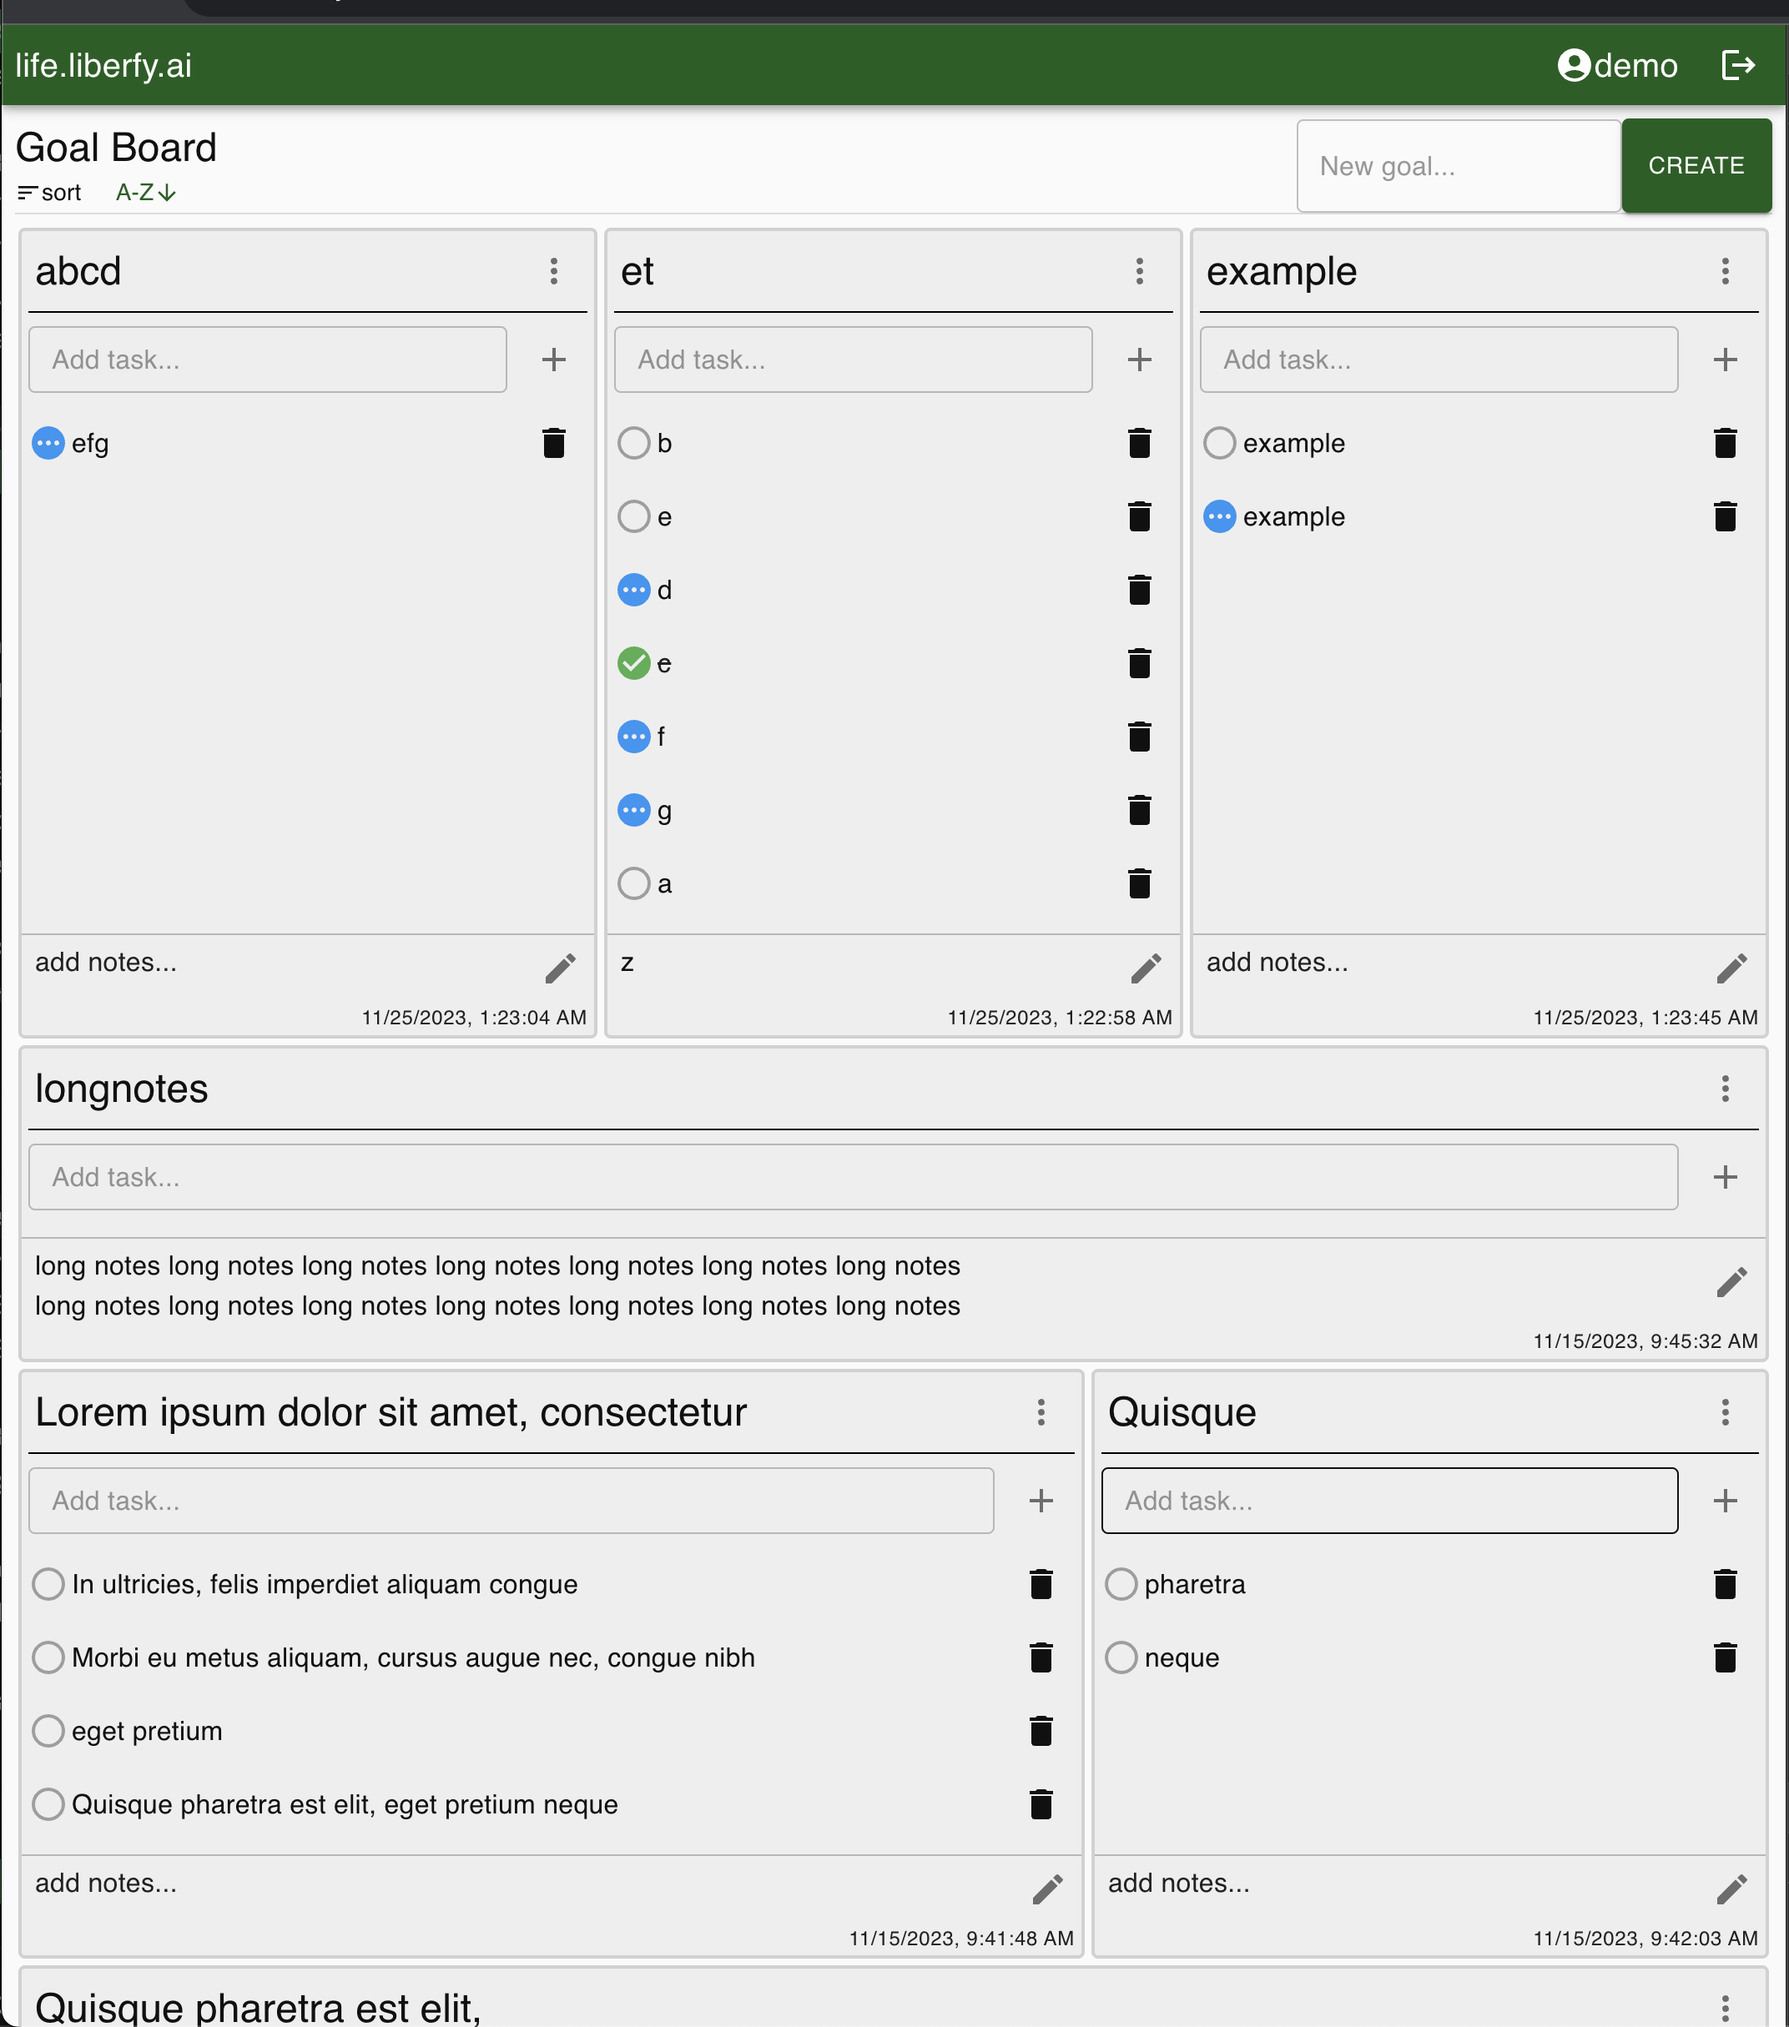
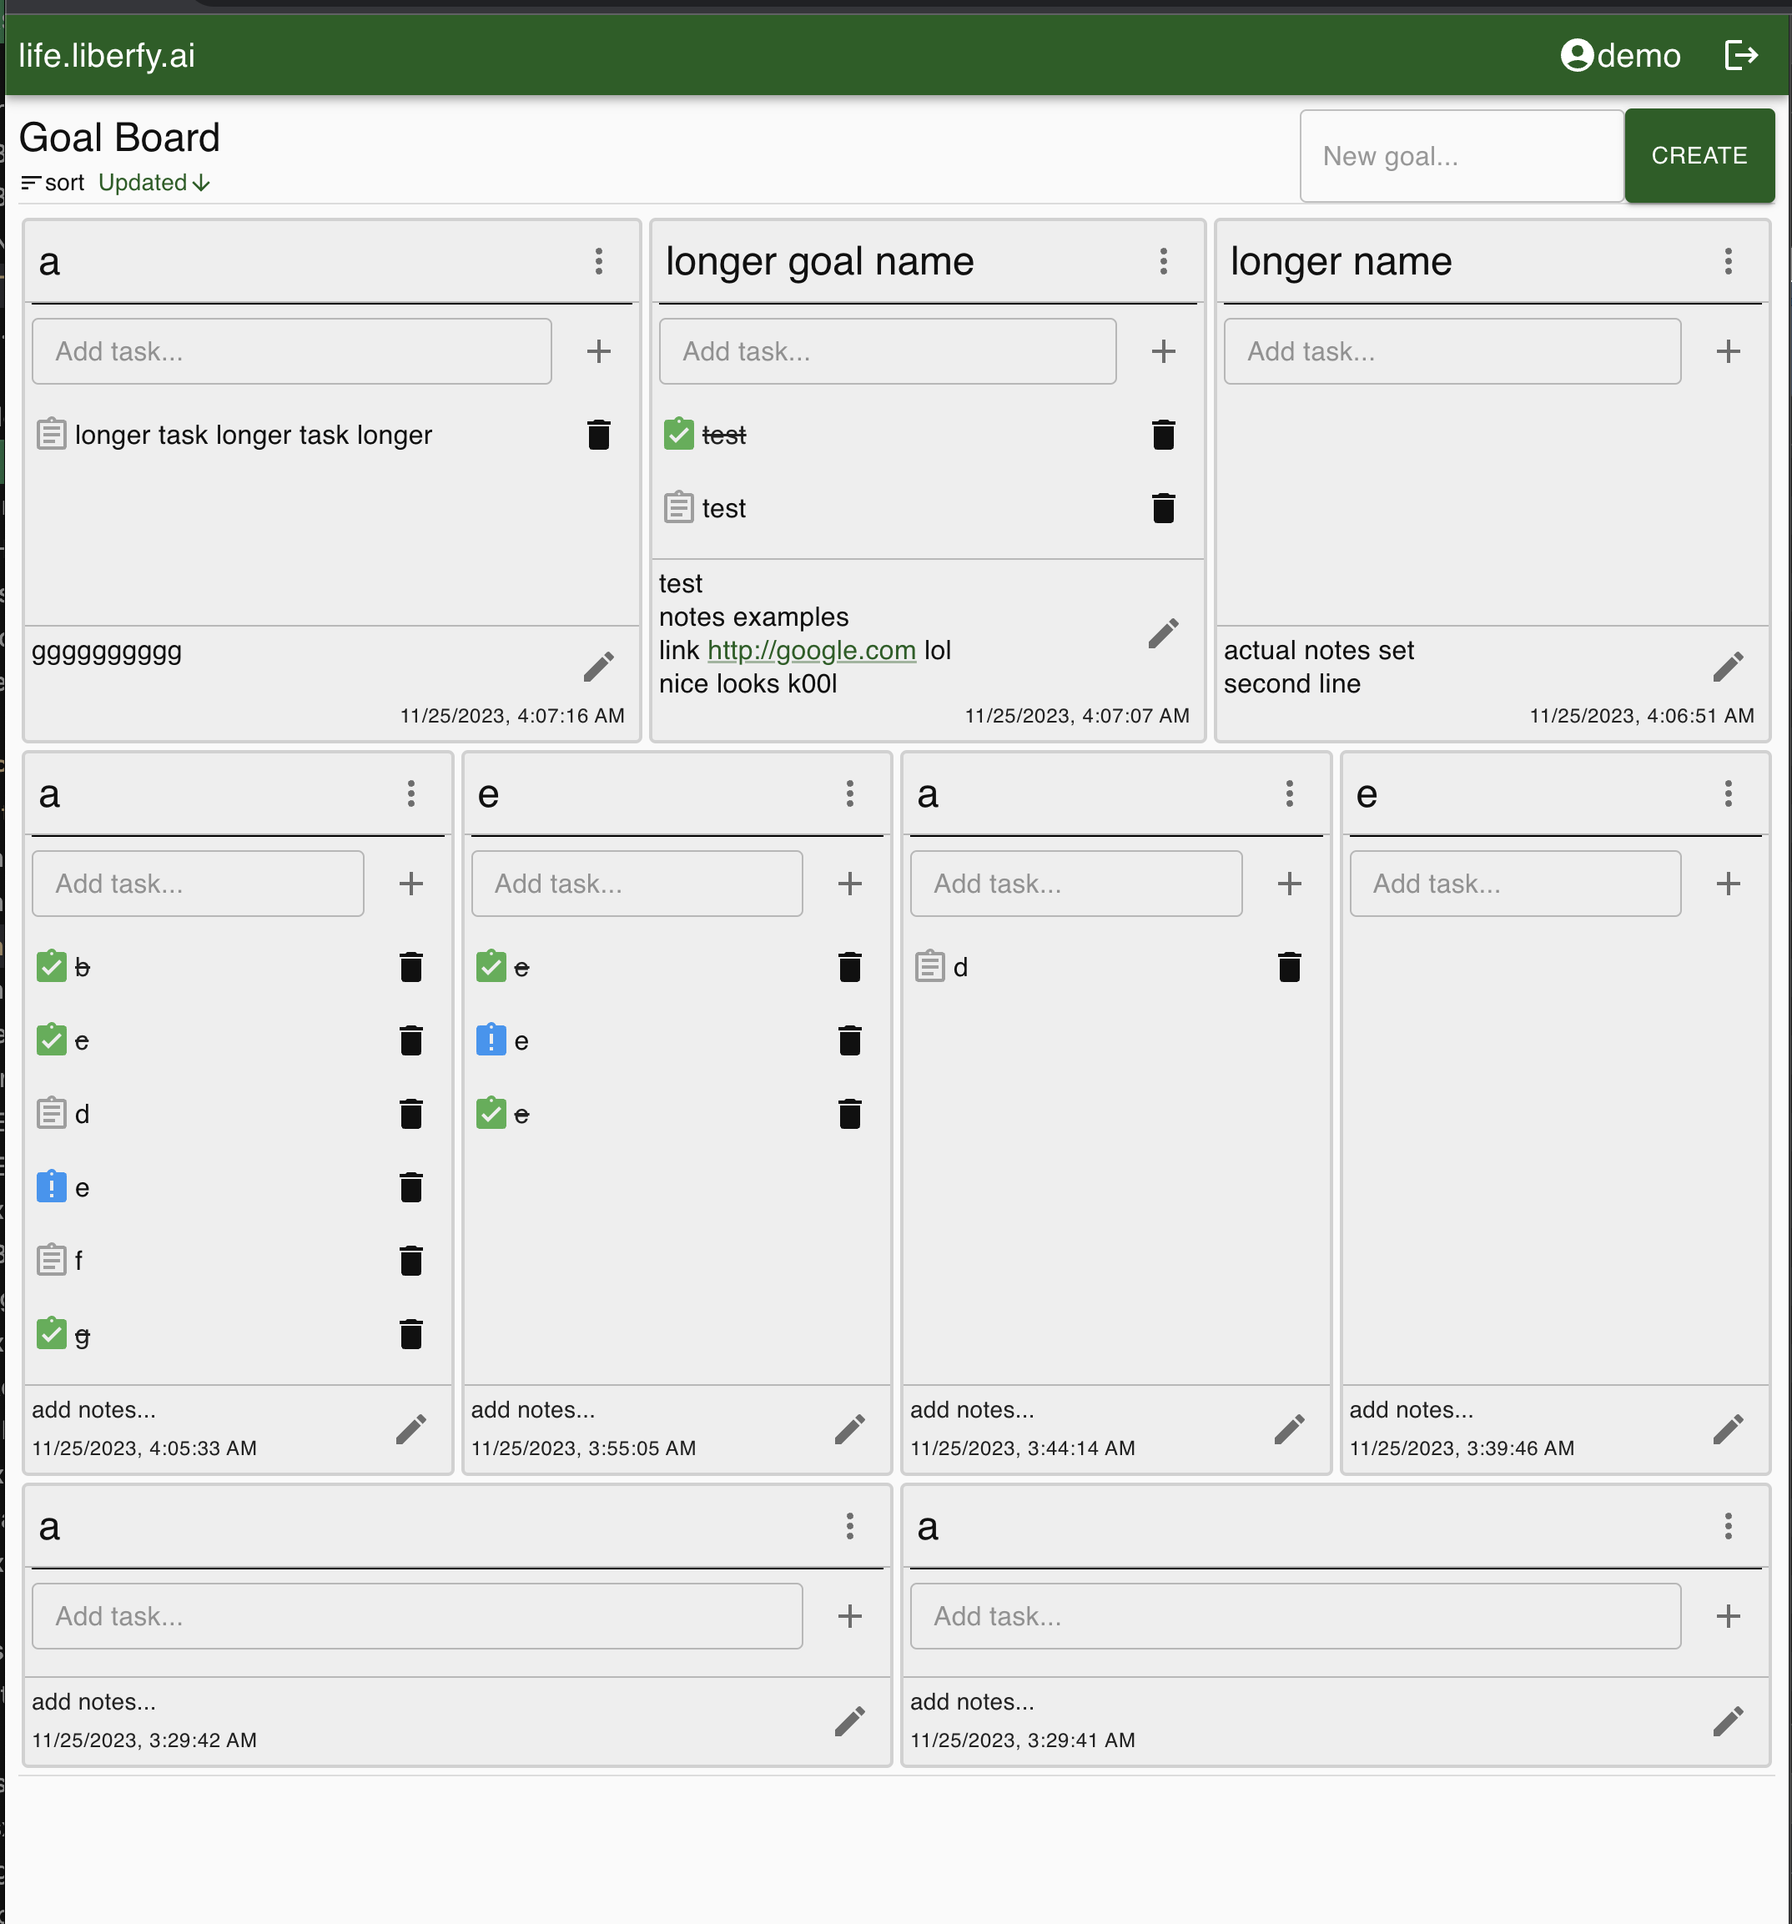
previews update

diff --git a/frontend/src/pages/GoalsPage/GoalItem/GoalTaskItem.tsx b/frontend/src/pages/GoalsPage/GoalItem/GoalTaskItem.tsx
@@ -2,9 +2,9 @@ import React from 'react';
 import { Box, Typography, IconButton } from '@mui/material';
 import { GoalTaskOut, GoalOut, TaskStatus } from '../../../api';
 import {
-  CircleOutlined,
-  Pending,
-  CheckCircle,
+  AssignmentOutlined as CircleOutlined,
+  AssignmentLate as Pending,
+  AssignmentTurnedIn as CheckCircle,
   Delete,
 } from '@mui/icons-material';
 import blue from '@mui/material/colors/blue';
